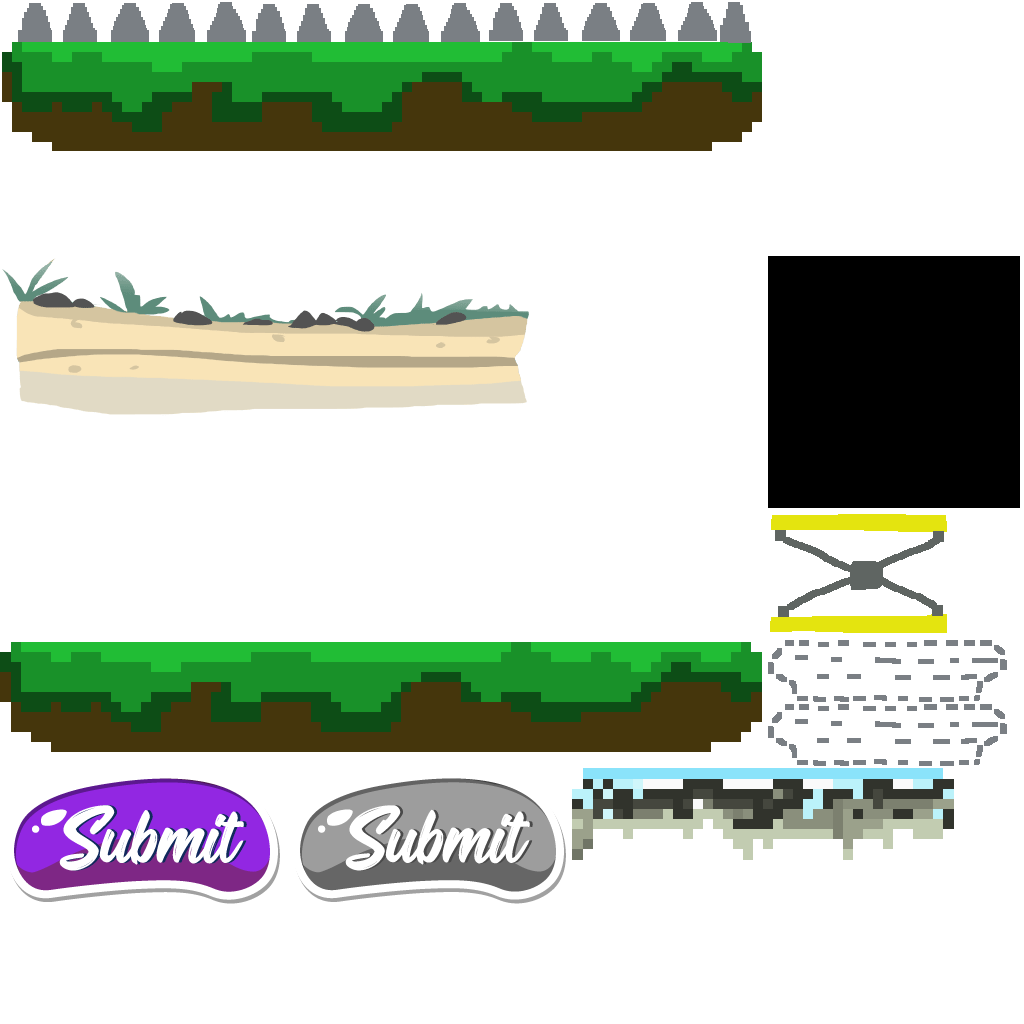
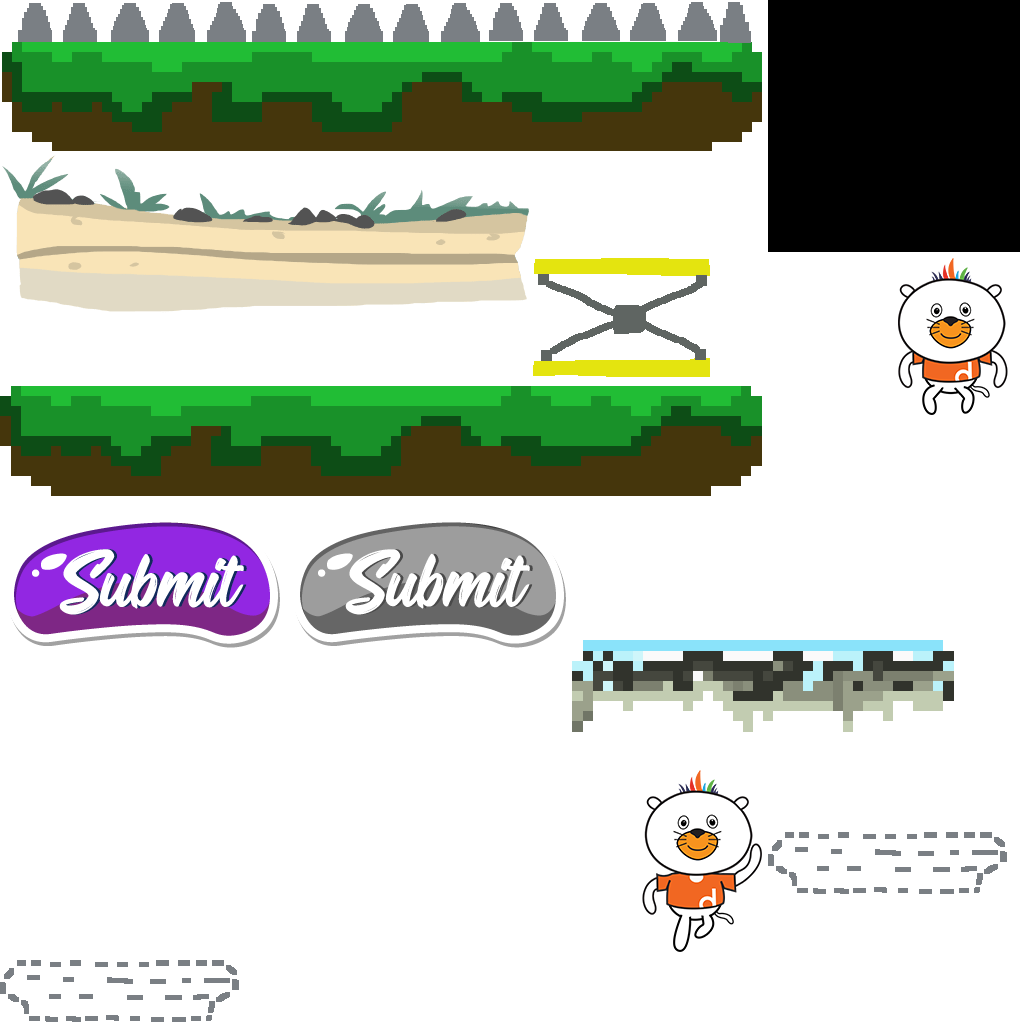
Add daz character

diff --git a/index.html b/index.html
@@ -22,7 +22,7 @@
 		<div id="notSupportedWrap">
 			<h2 id="notSupportedTitle">This content requires JavaScript</h2>
 			<p class="notSupportedMessage">JavaScript appears to be disabled. Please enable it to view this content.</p>
-			<p class="notSupportedMessage">This game was designed using Construct 3. <a href="https://www.construct.net/en">Create games</a></p>
+			<p class="notSupportedMessage">This content was made in Construct, a <a href="https://www.construct.net/en">2D games editor</a>.</p>
 		</div>
 	</noscript>
 	<script src="scripts/supportcheck.js"></script>

diff --git a/scripts/c3runtime.js b/scripts/c3runtime.js
@@ -870,7 +870,7 @@ self.C3_JsPropNameTable = [
 		p => {
 			const f0 = p._GetNode(0).GetBoundMethod();
 			const n1 = p._GetNode(1);
-			return () => f0((Math.abs(((-758) + n1.ExpObject())) / 1000));
+			return () => f0((Math.abs(((-782) + n1.ExpObject())) / 1000));
 		},
 		p => {
 			const f0 = p._GetNode(0).GetBoundMethod();
